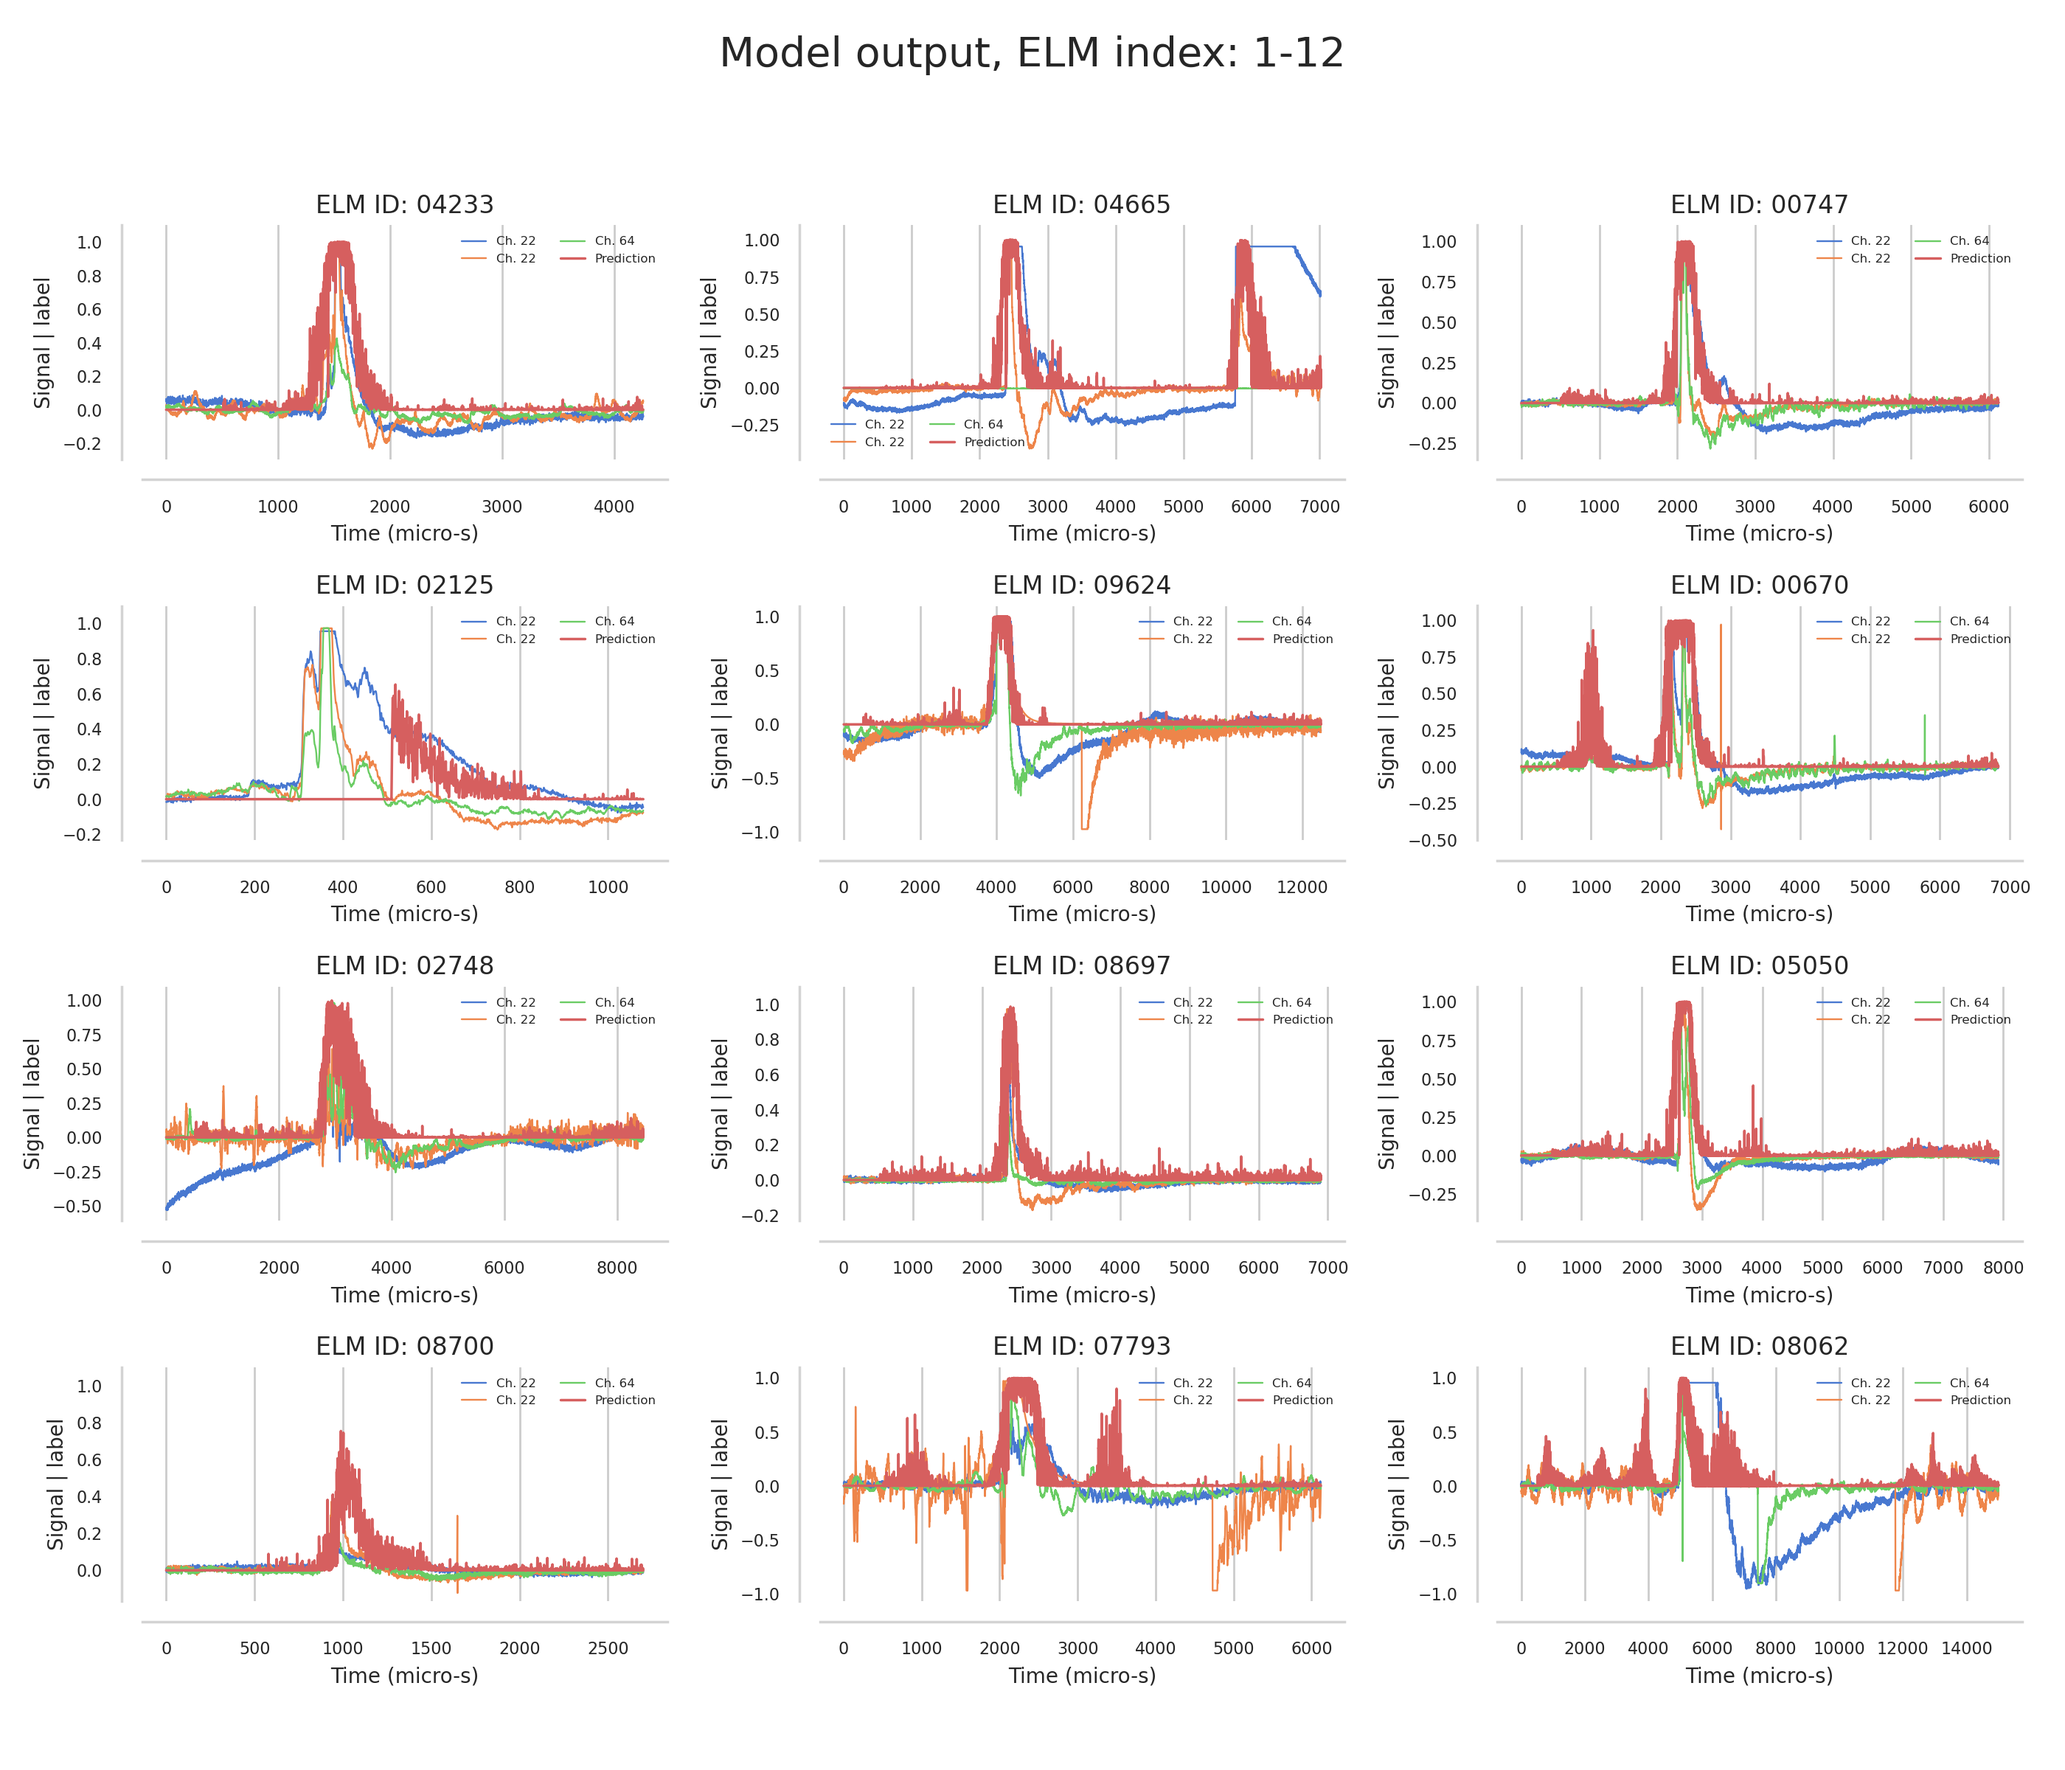
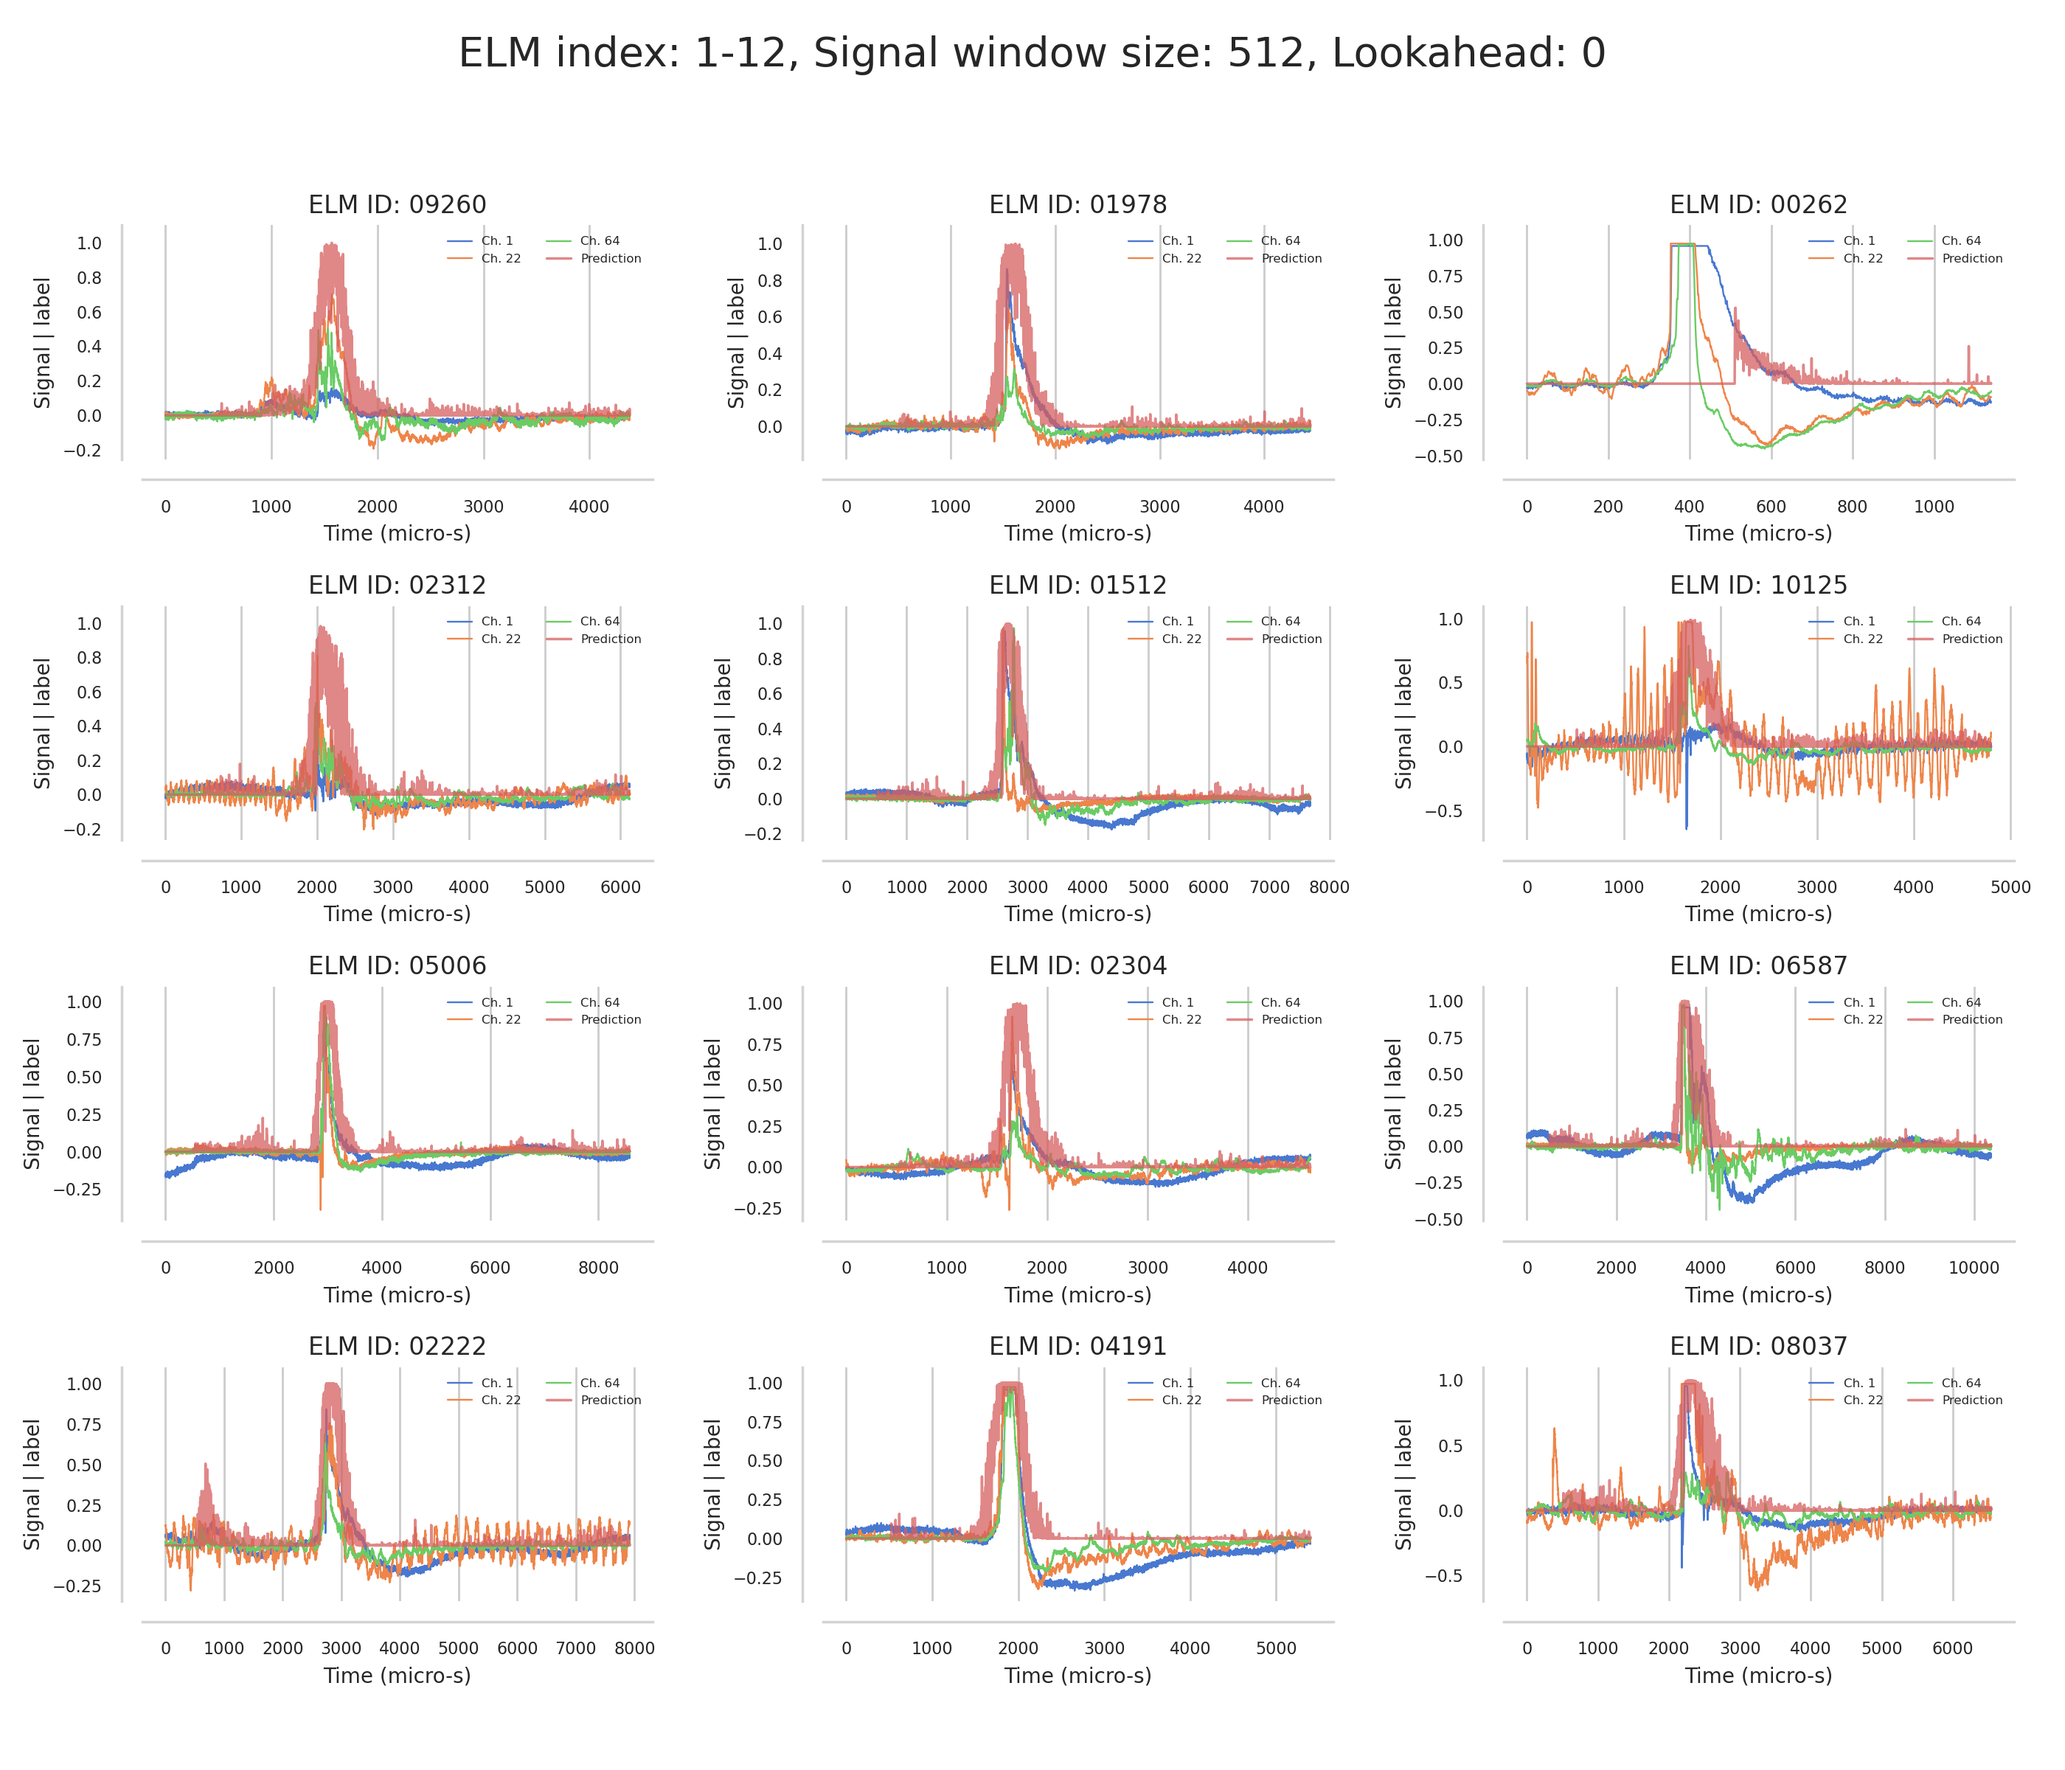
Run inference for sws 512, la 0 for unlabeled data.

diff --git a/unlabeled-elm-events/unlabeled_inference.py b/unlabeled-elm-events/unlabeled_inference.py
@@ -313,6 +313,8 @@ def predict(
 
 
 def plot(
+    sws: int,
+    la: int,
     elm_predictions: dict,
     plot_dir: str,
     elms: List[int],
@@ -321,17 +323,17 @@ def plot(
     n_cols: Union[int, None] = None,
     figsize: tuple = (14, 12),
     dry_run: bool = True,
+    show_plots: bool = True,
 ) -> None:
     fig = plt.figure(figsize=figsize)
     for i, elm_event in enumerate(elms):
         signals = elm_predictions[elm_event]["signals"]
-        # signal_max = np.max(signals)
         predictions = elm_predictions[elm_event]["micro_predictions"]
         print(f"ELM {i + 1} of {len(elms)} with {len(signals)} time points")
         plt.subplot(n_rows, n_cols, i + 1)
         plt.plot(
             signals[:, 0] / np.max(signals),
-            label="Ch. 22",
+            label="Ch. 1",
             lw=0.85,
         )
         plt.plot(
@@ -344,12 +346,7 @@ def plot(
             label="Ch. 64",
             lw=0.85,
         )
-        plt.plot(
-            predictions,
-            label="Prediction",
-            ls="-",
-            lw=1.25,
-        )
+        plt.plot(predictions, label="Prediction", ls="-", lw=1.25, alpha=0.75)
         plt.title(f"ELM ID: {elm_event}", fontsize=12)
         plt.xlabel("Time (micro-s)", fontsize=10)
         plt.ylabel("Signal | label", fontsize=10)
@@ -362,7 +359,7 @@ def plot(
         plt.gca().spines["bottom"].set_color("lightgrey")
         plt.grid(axis="y")
     plt.suptitle(
-        f"Model output, ELM index: {elm_range}",
+        f"ELM index: {elm_range}, Signal window size: {sws}, Lookahead: {la}",
         fontsize=20,
     )
     plt.tight_layout(rect=[0, 0.03, 1, 0.95])
@@ -374,14 +371,37 @@ def plot(
             ),
             dpi=200,
         )
-    plt.show()
+    if show_plots:
+        plt.show()
 
 
 def plot_all(
-    elm_predictions: dict, plot_dir: str, dry_run: bool = True
+    sws: int,
+    la: int,
+    elm_predictions: dict,
+    plot_dir: str,
+    dry_run: bool = True,
+    show_plots: bool = True,
 ) -> None:
     elm_id = list(elm_predictions.keys())
-    i_elms_1_12 = elm_id[:12]
+    for i in range(25):
+        i_elms = elm_id[i * 12 : (i + 1) * 12]
+        i_elm_predictions = {
+            k: v for k, v in elm_predictions.items() if k in i_elms
+        }
+        plot(
+            sws,
+            la,
+            i_elm_predictions,
+            plot_dir,
+            i_elms,
+            elm_range=str((i * 12) + 1) + "-" + str((i + 1) * 12),
+            n_rows=4,
+            n_cols=3,
+            dry_run=dry_run,
+            show_plots=show_plots,
+        )
+    # i_elms_1_12 = elm_id[:12]
     # i_elms_12_24 = elm_id[12:24]
     # i_elms_24_36 = elm_id[24:36]
     # i_elms_36_48 = elm_id[36:48]
@@ -389,15 +409,15 @@ def plot_all(
     # i_elms_60_64 = elm_id[60:64]
 
     # plot 1-12
-    plot(
-        elm_predictions,
-        plot_dir,
-        i_elms_1_12,
-        elm_range="1-12",
-        n_rows=4,
-        n_cols=3,
-        dry_run=dry_run,
-    )
+    # plot(
+    #     elm_predictions,
+    #     plot_dir,
+    #     i_elms_1_12,
+    #     elm_range="1-12",
+    #     n_rows=4,
+    #     n_cols=3,
+    #     dry_run=dry_run,
+    # )
     # # plot 12-24
     # plot(
     #     elm_predictions,
@@ -454,8 +474,8 @@ def plot_all(
 if __name__ == "__main__":
     # signal window size and label lookahead
     sws = 512
-    la = 1000
-    num_unlabeled_events = 12
+    la = 0
+    num_unlabeled_events = 300
 
     # define paths for model checkpoint and unlabeled data
     base_path = os.path.dirname(os.getcwd())
@@ -486,4 +506,11 @@ if __name__ == "__main__":
     file_obj.close()
 
     # plot
-    plot_all(predictions, plot_dir=os.getcwd(), dry_run=False)
+    plot_all(
+        sws,
+        la,
+        predictions,
+        plot_dir=os.getcwd(),
+        dry_run=False,
+        show_plots=False,
+    )
